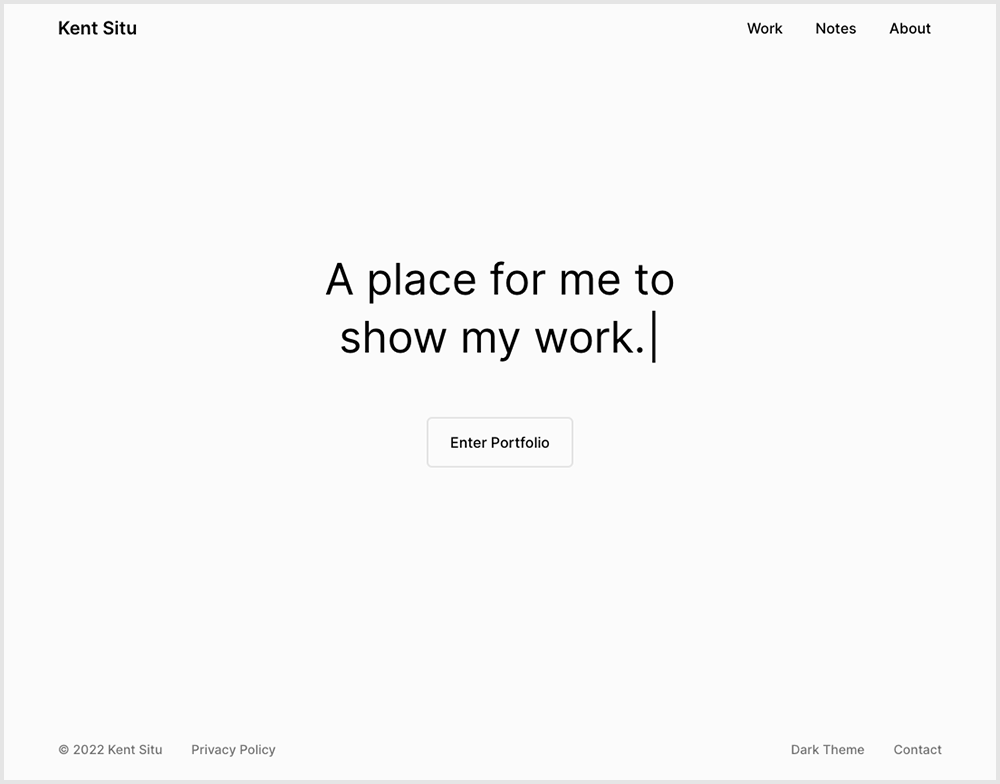
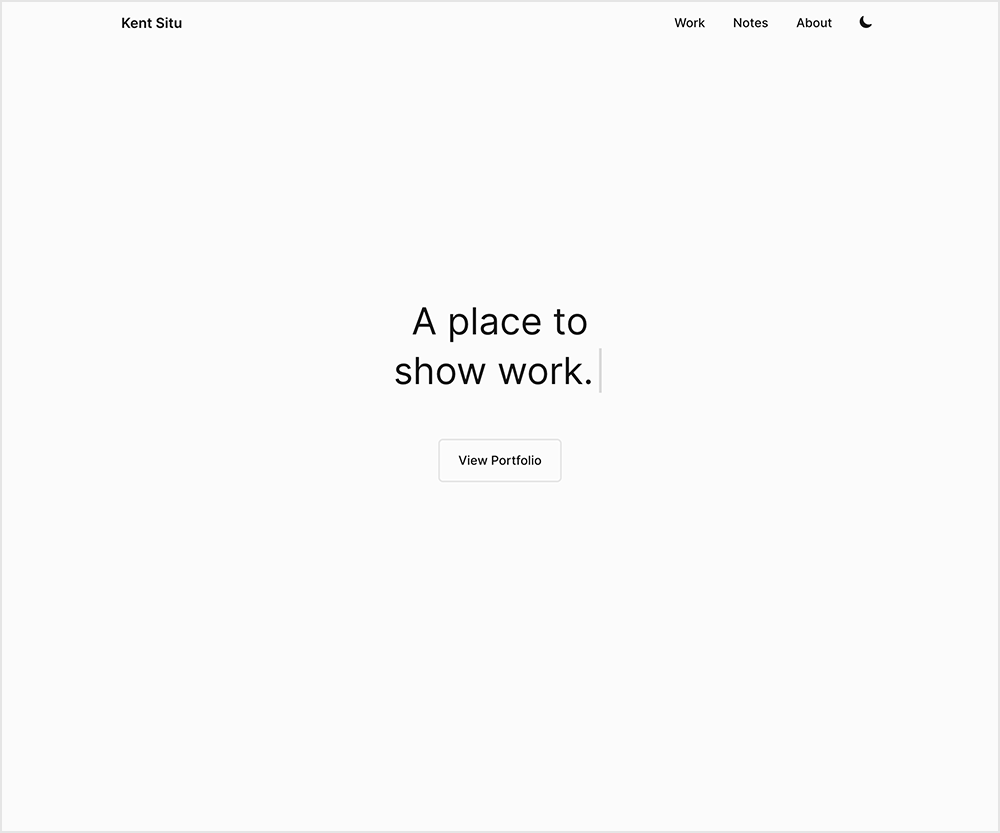
removed footer

diff --git a/components/NavBar.tsx b/components/NavBar.tsx
@@ -4,6 +4,7 @@ import Link from './Link'
 import MobileNav from './MobileNav'
 import { useRouter } from 'next/router'
 import { useEffect, useState } from 'react'
+import ThemeSwitch from './ThemeSwitch'
 
 function ScrollToTop() {
   const [atTop, setTop] = useState(true)
@@ -37,7 +38,7 @@ const NavBar = () => {
         <div className="mx-auto flex h-[60px] max-w-5xl items-center justify-between px-6">
           <Link href="/" aria-label={siteMetadata.headerTitle}>
             <div className="flex items-center justify-between">
-              <div className="text-lg font-bold sm:block">{siteMetadata.headerTitle}</div>
+              <div className="text-lg font-semibold sm:block">{siteMetadata.headerTitle}</div>
             </div>
           </Link>
           <div className="flex items-center text-base leading-5">
@@ -47,7 +48,7 @@ const NavBar = () => {
                   <button
                     className={`rounded font-medium py-2 px-3  ${
                       router.asPath === link.href
-                        ? 'py-2 px-3 rounded text-white bg-gray-800'
+                        ? 'py-2 px-3 rounded dark:text-white bg-gray-200 dark:bg-gray-800'
                         : 'py-2 px-3 hover:rounded hover:py-2 hover:px-3 hover:bg-gray-200 dark:hover:bg-gray-800'
                     }`}
                   >
@@ -56,6 +57,7 @@ const NavBar = () => {
                 </Link>
               ))}
             </div>
+            <ThemeSwitch />
             <MobileNav />
           </div>
         </div>

diff --git a/components/ThemeSwitch.tsx b/components/ThemeSwitch.tsx
@@ -1,5 +1,6 @@
 import { useEffect, useState } from 'react'
 import { useTheme } from 'next-themes'
+import { MdWbSunny, MdNightlightRound } from 'react-icons/md'
 
 const ThemeSwitch = () => {
   const [mounted, setMounted] = useState(false)
@@ -12,13 +13,17 @@ const ThemeSwitch = () => {
     <button
       aria-label="Toggle Dark Mode"
       type="button"
-      className=""
+      className="rounded py-2 pl-3 sm:pr-0 pr-3"
       onClick={() => setTheme(theme === 'dark' || resolvedTheme === 'dark' ? 'light' : 'dark')}
     >
       {mounted && (theme === 'dark' || resolvedTheme === 'dark') ? (
-        <div>Light Theme</div>
+        <div className="text-xl py-2 px-2 sm:hover:rounded sm:hover:py-2 sm:hover:px-2 sm:hover:bg-gray-200 sm:dark:hover:bg-gray-800">
+          <MdWbSunny />
+        </div>
       ) : (
-        <div>Dark Theme</div>
+        <div className="text-xl py-2 px-2 sm:hover:rounded sm:hover:py-2 sm:hover:px-2 sm:hover:bg-gray-200 sm:dark:hover:bg-gray-800">
+          <MdNightlightRound className="-rotate-45" />
+        </div>
       )}
     </button>
   )

diff --git a/layouts/NotesLayout.tsx b/layouts/NotesLayout.tsx
@@ -18,8 +18,8 @@ export default function NotesLayout({ initialDisplayPosts = [], pagination }: Pr
 
   return (
     <>
-      <PageSEO title={`Work - ${siteMetadata.author}`} description={'siteMetadata.description'} />
-      <div className="min-h-[calc(100vh-140px)] px-6 pb-2 sm:pb-4">
+      <PageSEO title={`Notes - ${siteMetadata.author}`} description={'siteMetadata.description'} />
+      <div className="min-h-[calc(100vh-140px)] px-6 pb-10 sm:pb-16">
         <div className="space-y-2 py-24 text-center sm:py-40 md:space-y-5">
           <h2 className="text-3xl leading-9 text-gray-900 dark:text-gray-100 sm:text-4xl sm:leading-10 md:leading-14">
             Designing user experiences from the ground up.

diff --git a/pages/_app.tsx b/pages/_app.tsx
@@ -10,7 +10,7 @@ import Head from 'next/head'
 
 import siteMetadata from '@/data/siteMetadata'
 import AllAnalytics from '@/components/analytics'
-import Footer from '@/components/Footer'
+// import Footer from '@/components/Footer'
 import NavBar from '@/components/NavBar'
 
 export default function App({ Component, pageProps }: AppProps) {
@@ -24,7 +24,7 @@ export default function App({ Component, pageProps }: AppProps) {
       <div className="mx-auto flex max-w-5xl flex-col justify-between xl:px-0">
         <Component {...pageProps} />
       </div>
-      <Footer />
+      {/* <Footer /> */}
     </ThemeProvider>
   )
 }

diff --git a/layouts/PostTimeLayout.tsx b/layouts/PostTimeLayout.tsx
@@ -24,9 +24,9 @@ export default function PostTimeLayout({ content, children }: Props) {
 
   return (
     <SectionContainer>
-      <PageSEO title={`Work - ${siteMetadata.author}`} description={'siteMetadata.description'} />
+      <PageSEO title={title} description={'siteMetadata.description'} />
       <article>
-        <div className="min-h-[calc(100vh-140px)] divide-gray-200 px-6 pb-10 dark:divide-gray-700">
+        <div className="min-h-[calc(100vh-140px)] divide-gray-200 px-6 pb-16 dark:divide-gray-700 sm:pb-24">
           <header className="pt-10 pb-6">
             <div className="space-y-1">
               <div>

diff --git a/layouts/WorkLayout.tsx b/layouts/WorkLayout.tsx
@@ -19,7 +19,7 @@ export default function WorkLayout({ initialDisplayPosts = [], pagination }: Pro
   return (
     <>
       <PageSEO title={`Work - ${siteMetadata.author}`} description={'siteMetadata.description'} />
-      <div className="min-h-[calc(100vh-140px)] px-6 pb-6 sm:pb-8">
+      <div className="min-h-[calc(100vh-140px)] px-6 pb-10 sm:pb-16">
         <div className="space-y-2 py-24 text-center sm:py-40 md:space-y-5">
           <h2 className="text-2xl leading-9 sm:text-4xl sm:leading-10 md:leading-14">
             Designing user experiences from the ground up.

diff --git a/layouts/AboutLayout.tsx b/layouts/AboutLayout.tsx
@@ -16,7 +16,7 @@ export default function AboutLayout({ children, content }: Props) {
   return (
     <>
       <PageSEO title={`About - ${name}`} description={`About me - ${name}`} />
-      <div className="min-h-[calc(100vh-140px)] px-6 py-4 pb-10">
+      <div className="min-h-[calc(100vh-140px)] px-6 pb-10 sm:pb-16">
         <div className="items-start space-y-2">
           <div className="flex flex-col items-center py-8">
             <Image src={avatar} alt="avatar" width={200} height={200} className="h-48 w-48" />

diff --git a/layouts/PostLayout.tsx b/layouts/PostLayout.tsx
@@ -18,7 +18,7 @@ export default function PostLayout({ content, children }: Props) {
     <SectionContainer>
       <PageSEO title={title} description={''} />
       <article>
-        <div className="divide-gray-200 px-6 pb-10 dark:divide-gray-700">
+        <div className="divide-gray-200 px-6 pb-16 dark:divide-gray-700 sm:pb-24">
           <header className="pt-10 pb-6">
             <div className="space-y-1">
               <div>
